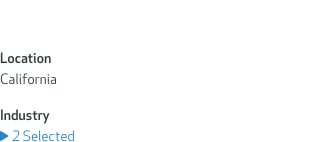
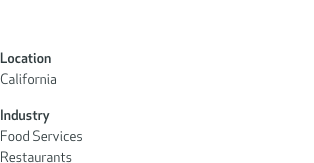
Links + signals on sidebar

Changed region(s): [[0.0, 0.3099, 0.2006, 0.5915], [0.0, 0.6761, 0.258, 0.8732], [0.0, 0.9014, 0.258, 1.0]]

diff --git a/rcx/Builder.framer/framer/framer.generated.js b/rcx/Builder.framer/framer/framer.generated.js
@@ -2051,6 +2051,87 @@ window.__imported__["builder-prototype-2@1x/layers.json.js"] = [
 				},
 				"children": [
 					{
+						"objectId": "0A367600-2ED3-40C6-9AC7-8069FE43B969",
+						"kind": "group",
+						"name": "SegmentsClick",
+						"originalName": "SegmentsClick",
+						"maskFrame": null,
+						"layerFrame": {
+							"x": 318,
+							"y": 83,
+							"width": 218,
+							"height": 37
+						},
+						"visible": true,
+						"metadata": {
+							"opacity": 0
+						},
+						"image": {
+							"path": "images/Layer-SegmentsClick-meeznjc2.png",
+							"frame": {
+								"x": 318,
+								"y": 83,
+								"width": 218,
+								"height": 37
+							}
+						},
+						"children": []
+					},
+					{
+						"objectId": "A5313E48-5DCA-4B4F-ABAF-9DDE89A89534",
+						"kind": "group",
+						"name": "ProgramsClick",
+						"originalName": "ProgramsClick",
+						"maskFrame": null,
+						"layerFrame": {
+							"x": 202,
+							"y": 10,
+							"width": 232,
+							"height": 109
+						},
+						"visible": true,
+						"metadata": {
+							"opacity": 0
+						},
+						"image": {
+							"path": "images/Layer-ProgramsClick-qtuzmtnf.png",
+							"frame": {
+								"x": 202,
+								"y": 10,
+								"width": 232,
+								"height": 109
+							}
+						},
+						"children": []
+					},
+					{
+						"objectId": "5C8F21BF-BEE4-492B-A194-12981AD72880",
+						"kind": "group",
+						"name": "PerformanceClick",
+						"originalName": "PerformanceClick",
+						"maskFrame": null,
+						"layerFrame": {
+							"x": 444,
+							"y": 12,
+							"width": 106,
+							"height": 37
+						},
+						"visible": true,
+						"metadata": {
+							"opacity": 0
+						},
+						"image": {
+							"path": "images/Layer-PerformanceClick-num4rjix.png",
+							"frame": {
+								"x": 444,
+								"y": 12,
+								"width": 106,
+								"height": 37
+							}
+						},
+						"children": []
+					},
+					{
 						"objectId": "688E3E6B-51EC-4DDA-BAA5-3691B97F485B",
 						"kind": "group",
 						"name": "upperPart",
@@ -4490,7 +4571,7 @@ window.__imported__["builder-prototype-2@1x/layers.json.js"] = [
 							"x": 916,
 							"y": 188,
 							"width": 314,
-							"height": 489
+							"height": 510
 						},
 						"visible": true,
 						"metadata": {
@@ -4534,7 +4615,7 @@ window.__imported__["builder-prototype-2@1x/layers.json.js"] = [
 									"x": 916,
 									"y": 242,
 									"width": 314,
-									"height": 378
+									"height": 399
 								},
 								"visible": true,
 								"metadata": {
@@ -4853,7 +4934,7 @@ window.__imported__["builder-prototype-2@1x/layers.json.js"] = [
 											"x": 916,
 											"y": 478,
 											"width": 314,
-											"height": 142
+											"height": 163
 										},
 										"visible": true,
 										"metadata": {
@@ -4865,7 +4946,7 @@ window.__imported__["builder-prototype-2@1x/layers.json.js"] = [
 												"x": 916,
 												"y": 478,
 												"width": 314,
-												"height": 142
+												"height": 163
 											}
 										},
 										"children": [
@@ -4910,7 +4991,7 @@ window.__imported__["builder-prototype-2@1x/layers.json.js"] = [
 									"x": 916,
 									"y": 242,
 									"width": 314,
-									"height": 435
+									"height": 456
 								},
 								"visible": true,
 								"metadata": {
@@ -5229,7 +5310,7 @@ window.__imported__["builder-prototype-2@1x/layers.json.js"] = [
 											"x": 916,
 											"y": 478,
 											"width": 314,
-											"height": 199
+											"height": 220
 										},
 										"visible": true,
 										"metadata": {
@@ -5241,7 +5322,7 @@ window.__imported__["builder-prototype-2@1x/layers.json.js"] = [
 												"x": 916,
 												"y": 478,
 												"width": 314,
-												"height": 199
+												"height": 220
 											}
 										},
 										"children": [

diff --git a/rcx/Builder.framer/imported/builder-prototype-2@1x/layers.json.js b/rcx/Builder.framer/imported/builder-prototype-2@1x/layers.json.js
@@ -34,6 +34,87 @@ window.__imported__["builder-prototype-2@1x/layers.json.js"] = [
 				},
 				"children": [
 					{
+						"objectId": "0A367600-2ED3-40C6-9AC7-8069FE43B969",
+						"kind": "group",
+						"name": "SegmentsClick",
+						"originalName": "SegmentsClick",
+						"maskFrame": null,
+						"layerFrame": {
+							"x": 318,
+							"y": 83,
+							"width": 218,
+							"height": 37
+						},
+						"visible": true,
+						"metadata": {
+							"opacity": 0
+						},
+						"image": {
+							"path": "images/Layer-SegmentsClick-meeznjc2.png",
+							"frame": {
+								"x": 318,
+								"y": 83,
+								"width": 218,
+								"height": 37
+							}
+						},
+						"children": []
+					},
+					{
+						"objectId": "A5313E48-5DCA-4B4F-ABAF-9DDE89A89534",
+						"kind": "group",
+						"name": "ProgramsClick",
+						"originalName": "ProgramsClick",
+						"maskFrame": null,
+						"layerFrame": {
+							"x": 202,
+							"y": 10,
+							"width": 232,
+							"height": 109
+						},
+						"visible": true,
+						"metadata": {
+							"opacity": 0
+						},
+						"image": {
+							"path": "images/Layer-ProgramsClick-qtuzmtnf.png",
+							"frame": {
+								"x": 202,
+								"y": 10,
+								"width": 232,
+								"height": 109
+							}
+						},
+						"children": []
+					},
+					{
+						"objectId": "5C8F21BF-BEE4-492B-A194-12981AD72880",
+						"kind": "group",
+						"name": "PerformanceClick",
+						"originalName": "PerformanceClick",
+						"maskFrame": null,
+						"layerFrame": {
+							"x": 444,
+							"y": 12,
+							"width": 106,
+							"height": 37
+						},
+						"visible": true,
+						"metadata": {
+							"opacity": 0
+						},
+						"image": {
+							"path": "images/Layer-PerformanceClick-num4rjix.png",
+							"frame": {
+								"x": 444,
+								"y": 12,
+								"width": 106,
+								"height": 37
+							}
+						},
+						"children": []
+					},
+					{
 						"objectId": "688E3E6B-51EC-4DDA-BAA5-3691B97F485B",
 						"kind": "group",
 						"name": "upperPart",
@@ -2473,7 +2554,7 @@ window.__imported__["builder-prototype-2@1x/layers.json.js"] = [
 							"x": 916,
 							"y": 188,
 							"width": 314,
-							"height": 489
+							"height": 510
 						},
 						"visible": true,
 						"metadata": {
@@ -2517,7 +2598,7 @@ window.__imported__["builder-prototype-2@1x/layers.json.js"] = [
 									"x": 916,
 									"y": 242,
 									"width": 314,
-									"height": 378
+									"height": 399
 								},
 								"visible": true,
 								"metadata": {
@@ -2836,7 +2917,7 @@ window.__imported__["builder-prototype-2@1x/layers.json.js"] = [
 											"x": 916,
 											"y": 478,
 											"width": 314,
-											"height": 142
+											"height": 163
 										},
 										"visible": true,
 										"metadata": {
@@ -2848,7 +2929,7 @@ window.__imported__["builder-prototype-2@1x/layers.json.js"] = [
 												"x": 916,
 												"y": 478,
 												"width": 314,
-												"height": 142
+												"height": 163
 											}
 										},
 										"children": [
@@ -2893,7 +2974,7 @@ window.__imported__["builder-prototype-2@1x/layers.json.js"] = [
 									"x": 916,
 									"y": 242,
 									"width": 314,
-									"height": 435
+									"height": 456
 								},
 								"visible": true,
 								"metadata": {
@@ -3212,7 +3293,7 @@ window.__imported__["builder-prototype-2@1x/layers.json.js"] = [
 											"x": 916,
 											"y": 478,
 											"width": 314,
-											"height": 199
+											"height": 220
 										},
 										"visible": true,
 										"metadata": {
@@ -3224,7 +3305,7 @@ window.__imported__["builder-prototype-2@1x/layers.json.js"] = [
 												"x": 916,
 												"y": 478,
 												"width": 314,
-												"height": 199
+												"height": 220
 											}
 										},
 										"children": [
